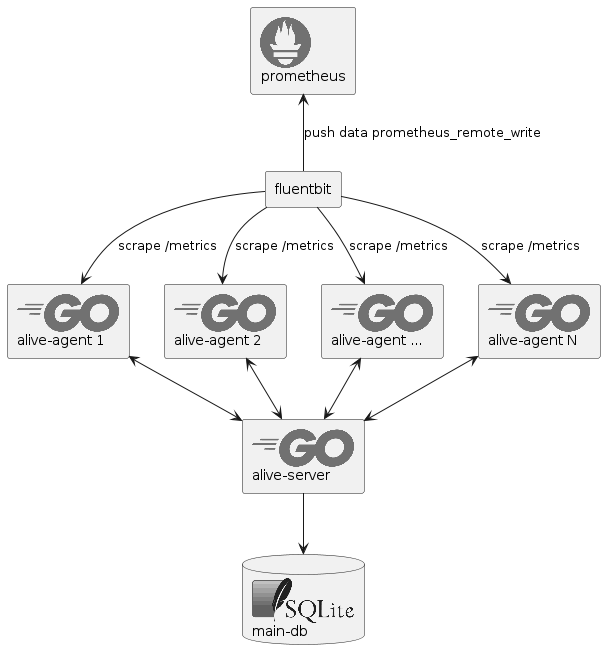
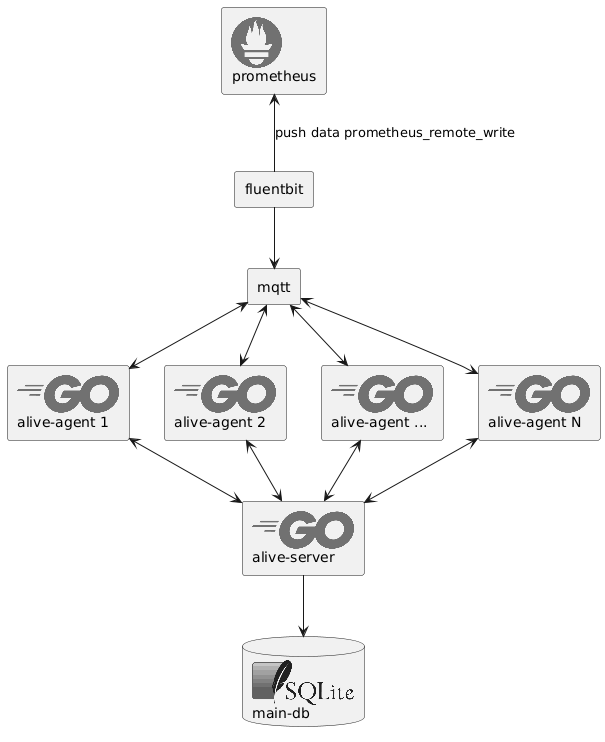
change general design

diff --git a/readme.md b/readme.md
@@ -4,7 +4,7 @@ Periodically test endpoint in location and ISP aware
 # Overview 
 There are 2 part that make Alive, `alive-agent` run the test cases while `alive-server` contain information including test cases, agent information and many other relevant configurations. Alive cluster will consist of several `alive-agent` deployed on various configuration of location and ISP,  one `alive-server` coordinating all the agents. 
 
-`alive-agent` will run test cases and expose the result as prometheus formated metrics ready to be scrapped, by default alive is using fluent-bit to scrape and store the data into prometheus via prometheus_remote_write.
+`alive-agent` will run test cases and push the result to MQTT Broker, fluentbit will consume the mqtt messages and store the data into prometheus via prometheus_remote_write.
 
 ![architecture overview of alive cluster](/doc/overview.png)
 
